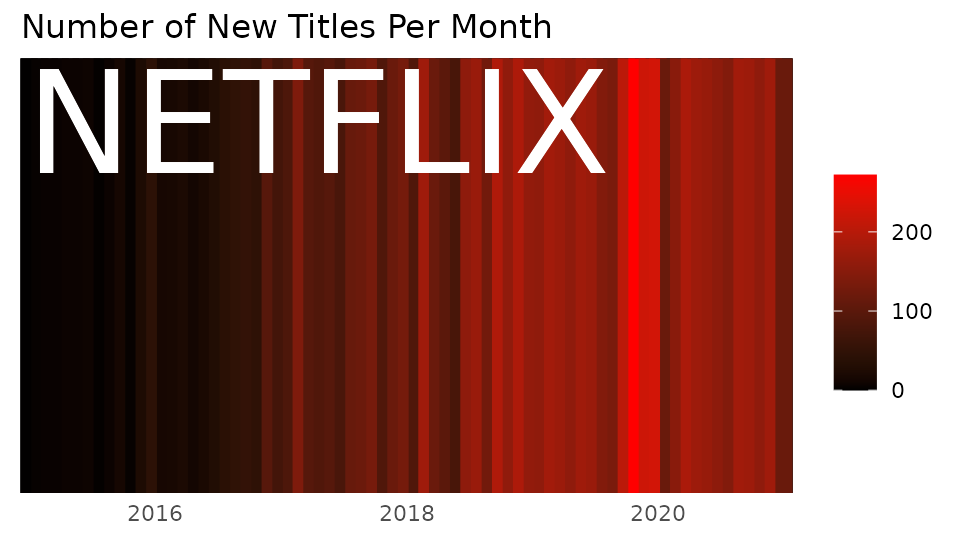
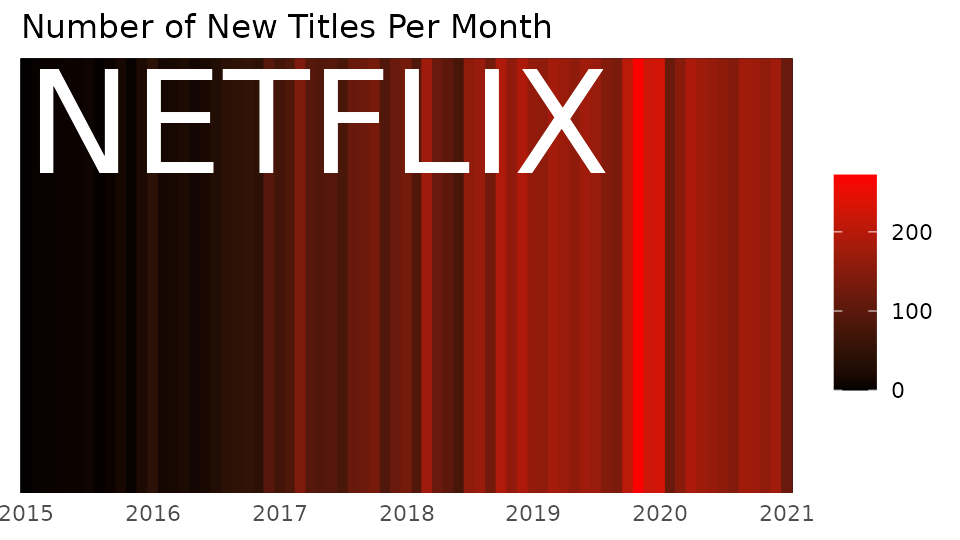
further improvements

diff --git a/README.md b/README.md
@@ -81,9 +81,9 @@ dplyr::glimpse(added_per_month)
 
 ``` r
 ggplot2::ggplot(added_per_month) +
-  # 高さ一定のタイルを使い色で件数を表現
+  # 高さ一定のタイルを使い色で件数を表現。幅は隙間が生じないよう調整
   ggplot2::geom_tile(
-    ggplot2::aes(x = month_added, y = 1, fill = n, width = 50)
+    ggplot2::aes(x = month_added, y = 1, fill = n, width = 33)
   ) +
   # タイルの色を調整
   ggplot2::scale_fill_gradient(
@@ -91,6 +91,8 @@ ggplot2::ggplot(added_per_month) +
     low = "black", high = "red", # NETFLIXカラーにする
     limits = c(0L, NA_integer_)  # 最小値を0に固定、最大値をデータから決定
   ) +
+  # 1年ごとに目盛を追加
+  ggplot2::scale_x_date(date_breaks = "1 years", date_labels = "%Y") +
   # NETFLIXと白字で記述
   ggplot2::annotate(
     "text", label = "NETFLIX", color = "white", size = 20,
@@ -103,7 +105,7 @@ ggplot2::ggplot(added_per_month) +
   ggplot2::theme_minimal() +
   ggplot2::theme(
     panel.background = ggplot2::element_rect(
-      fill = "black" # 0件の部分は棒がないので黒塗り
+      fill = "black" # 0件の部分はタイルがないので黒塗り
     ),
     panel.grid = ggplot2::element_blank(), # 目盛線不要
     axis.title = ggplot2::element_blank(), # 軸タイトル不要
